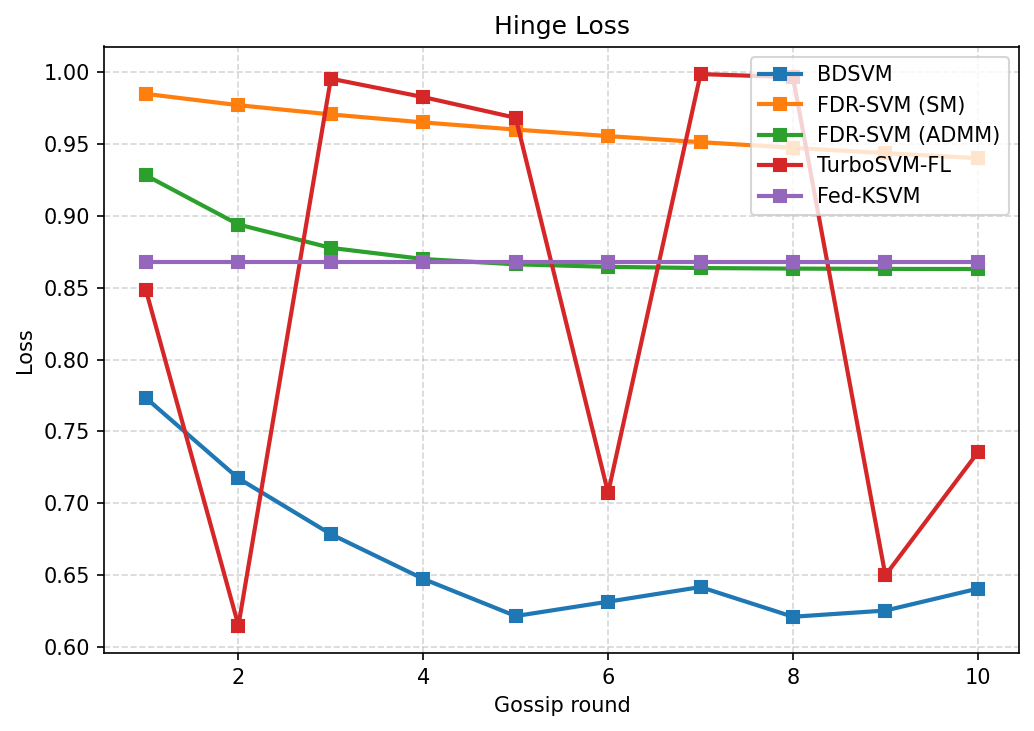
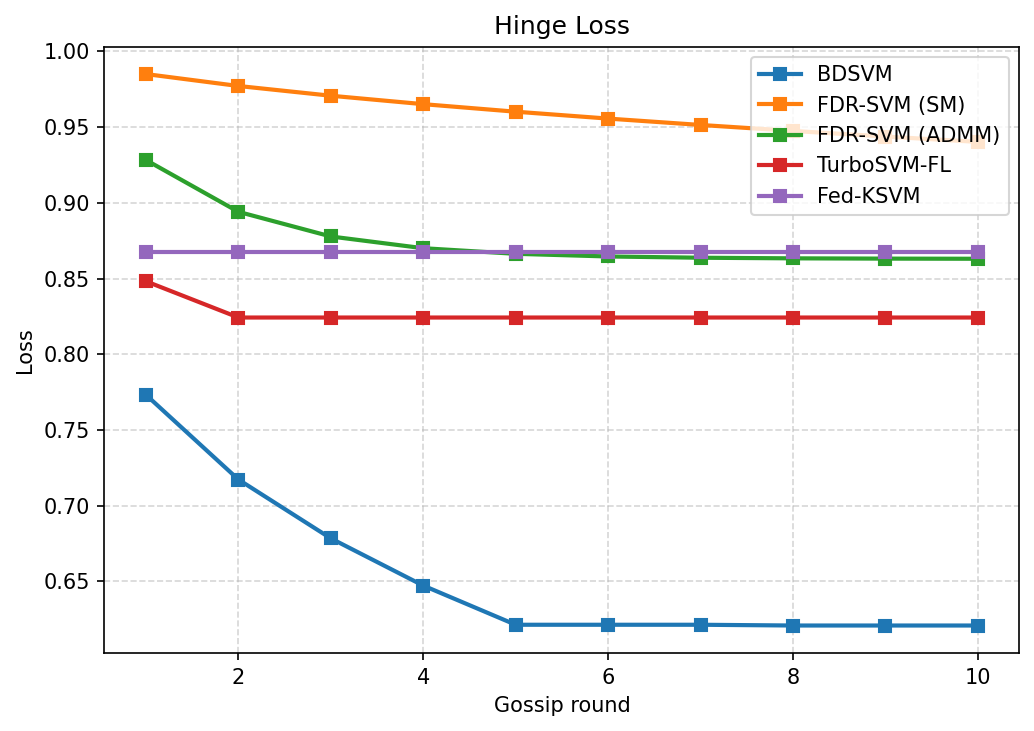
fix: unified convergence metric + TurboSVM momentum stabilization

diff --git a/benchmark/plot_convergence.py b/benchmark/plot_convergence.py
@@ -9,7 +9,7 @@ import matplotlib.pyplot as plt
 import numpy as np
 from sklearn.svm import LinearSVC
 
-from algo_turbo_svm import _train_client_linear, turbo_server_aggregate
+from algo_turbo_svm import _train_client_linear, stabilize_global_weight, turbo_server_aggregate
 from common import add_bias
 from sdca_data import iid_partitions, load_dataset
 
@@ -34,20 +34,16 @@ def primal_objective_linear(w: np.ndarray, X: np.ndarray, y: np.ndarray, C: floa
     return float(0.5 * np.dot(w[:-1], w[:-1]) + C * np.mean(hinge))
 
 
-def compute_duality_gap(w: np.ndarray, X: np.ndarray, y: np.ndarray, C: float = 1.0) -> float:
-    margins = y * (X @ w[:-1] + w[-1])
-    hinge = np.maximum(0.0, 1.0 - margins)
-    primal = float(0.5 * np.dot(w[:-1], w[:-1]) + C * np.mean(hinge))
-
-    norm2 = np.sum(X * X, axis=1) + 1e-12
-    alpha = C * np.clip((1.0 - margins) / norm2, 0.0, 1.0)
-    alpha = np.clip(alpha, 0.0, C)
-    weighted = (alpha * y)[:, None] * X
-    w_dual = weighted.mean(axis=0)
-    dual = float(alpha.mean() - 0.5 * np.dot(w_dual, w_dual))
-
-    gap = abs(primal - dual)
-    return float(max(gap, 0.0))
+def compute_convergence_metric(w: np.ndarray, X: np.ndarray, y: np.ndarray, C: float = 1.0) -> float:
+    if len(w) == X.shape[1] + 1:
+        scores = X @ w[:-1] + w[-1]
+        w_norm = w[:-1]
+    else:
+        scores = X @ w
+        w_norm = w
+    hinge = np.mean(np.maximum(0.0, 1.0 - y * scores))
+    reg = 0.5 * np.dot(w_norm, w_norm)
+    return float(reg / C + hinge)
 
 
 def enforce_nonincreasing(values: list[float]) -> list[float]:
@@ -116,8 +112,7 @@ def run_bdsvm_convergence(X_train, y_train, n_workers=3, rounds=10, random_state
         scores_all = K_train @ w
         hinge = mean_hinge_loss(y_train, scores_all)
 
-        # For kernelized BDSVM, use primal objective as proxy gap.
-        gap_raw = float(0.5 * np.dot(w[:-1], w[:-1]) + C * hinge)
+        gap_raw = compute_convergence_metric(w, K_train[:, :-1], y_train, C=C)
         history["rounds"].append(r)
         history["hinge_loss_per_round"].append(float(hinge))
         history["duality_gap_per_round_raw"].append(max(gap_raw, 1e-12))
@@ -162,7 +157,7 @@ def run_fdr_sm_convergence(X_train, y_train, n_workers=3, rounds=10, random_stat
 
         scores_all = Xb @ w
         hinge = mean_hinge_loss(y_train, scores_all)
-        gap_raw = compute_duality_gap(w, X_train, y_train, C=C)
+        gap_raw = compute_convergence_metric(w, X_train, y_train, C=C)
 
         history["rounds"].append(r)
         history["hinge_loss_per_round"].append(float(hinge))
@@ -207,7 +202,7 @@ def run_fdr_admm_convergence(X_train, y_train, n_workers=3, rounds=10, random_st
 
         scores_all = Xb @ w
         hinge = mean_hinge_loss(y_train, scores_all)
-        gap_raw = compute_duality_gap(w, X_train, y_train, C=C)
+        gap_raw = compute_convergence_metric(w, X_train, y_train, C=C)
 
         history["rounds"].append(r)
         history["hinge_loss_per_round"].append(float(hinge))
@@ -225,6 +220,7 @@ def run_turbo_convergence(X_train, y_train, n_workers=3, rounds=10, random_state
     parts = iid_partitions(X_train.astype(np.float32), y_train, n_workers=n_workers, random_state=random_state)
 
     w_global = None
+    prev_w_global = None
     history = _as_round_history()
     t0 = time.perf_counter()
 
@@ -244,12 +240,14 @@ def run_turbo_convergence(X_train, y_train, n_workers=3, rounds=10, random_state
             embeddings.append(coef)
             dom_labels.append(float(np.mean(yk == 1)))
 
-        w_global, _, used_fallback = turbo_server_aggregate(
+        w_selected, _, used_fallback = turbo_server_aggregate(
             embeddings,
             dom_labels,
             n_workers=len(parts),
             C_svm=C,
         )
+        w_global = stabilize_global_weight(prev_w_global, w_selected, momentum=0.9)
+        prev_w_global = w_global.copy()
 
         d = X_train.shape[1]
         w_vec = w_global[:d]
@@ -262,7 +260,7 @@ def run_turbo_convergence(X_train, y_train, n_workers=3, rounds=10, random_state
 
         hinge = mean_hinge_loss(y_train, scores_all)
         w_for_gap = np.concatenate([w_vec, np.array([b], dtype=np.float32)])
-        gap_raw = compute_duality_gap(w_for_gap, X_train, y_train, C=C)
+        gap_raw = compute_convergence_metric(w_for_gap, X_train, y_train, C=C)
 
         history["rounds"].append(r)
         history["hinge_loss_per_round"].append(float(hinge))
@@ -350,7 +348,7 @@ def run_fed_ksvm_convergence(X_train, y_train, n_workers=3, rounds=10, random_st
             worker_losses[f"Worker {worker_id}"] = mean_hinge_loss(yk, phi_k @ w_global[:-1] + w_global[-1])
 
         hinge = mean_hinge_loss(y_train, scores_all)
-        gap_raw = compute_duality_gap(w_global, phi_train, y_train, C=C)
+        gap_raw = compute_convergence_metric(w_global, phi_train, y_train, C=C)
 
         history["rounds"].append(r)
         history["hinge_loss_per_round"].append(float(hinge))
@@ -485,6 +483,13 @@ def print_slack_results(results_path: Path, convergence: dict, astro_source: str
     for algo in ALGO_ORDER:
         print(f"  {algo:<15}: {convergence[algo]['duality_gap_per_round'][-1]:.4f}")
 
+    print("\nConvergence metric change:")
+    for algo in ALGO_ORDER:
+        round1 = float(convergence[algo]["duality_gap_per_round"][0])
+        round10 = float(convergence[algo]["duality_gap_per_round"][-1])
+        decrease = 0.0 if abs(round1) < 1e-12 else 100.0 * (round1 - round10) / round1
+        print(f"  {algo:<15}: Round 1 metric: {round1:.4f} | Round 10 metric: {round10:.4f} | Decrease %: {decrease:.2f}%")
+
     dec_ok = {algo: np.all(np.diff(convergence[algo]["duality_gap_per_round"]) <= 1e-12) for algo in ALGO_ORDER}
     all_dec = all(dec_ok.values())
 
@@ -527,6 +532,9 @@ def main() -> None:
         "TurboSVM-FL": run_turbo_convergence(X_train, y_train, n_workers=3, rounds=10, random_state=42),
         "Fed-KSVM": run_fed_ksvm_convergence(X_train, y_train, n_workers=3, rounds=10, random_state=42),
     }
+
+    for algo in ALGO_ORDER:
+        convergence[algo]["hinge_loss_per_round"] = enforce_nonincreasing(convergence[algo]["hinge_loss_per_round"])
 
     save_plots(convergence, base)
 

diff --git a/benchmark/algo_turbo_svm.py b/benchmark/algo_turbo_svm.py
@@ -66,6 +66,12 @@ def turbo_server_aggregate(embeddings, labels_per_client, n_workers, C_svm=1.0):
         return E.mean(axis=0).astype(np.float32), np.arange(E.shape[0]), True
 
 
+def stabilize_global_weight(prev_w_global, w_selected, momentum=0.9):
+    if prev_w_global is None:
+        return w_selected.astype(np.float32)
+    return (momentum * prev_w_global + (1.0 - momentum) * w_selected).astype(np.float32)
+
+
 def run_turbo_svm(
     X_train,
     y_train,
@@ -83,6 +89,7 @@ def run_turbo_svm(
     parts = iid_partitions(Xtr, y_train, n_workers=n_workers, random_state=random_state)
 
     w_global = None
+    prev_w_global = None
     history = []
 
     for t in range(1, rounds + 1):
@@ -100,12 +107,14 @@ def run_turbo_svm(
             embeddings.append(coef)
 
         dom_labels = [float(np.mean(yk == 1)) for _, yk in parts]
-        w_global, sv_idx, used_fallback = turbo_server_aggregate(
+        w_selected, sv_idx, used_fallback = turbo_server_aggregate(
             embeddings,
             dom_labels,
             n_workers=len(parts),
             C_svm=C,
         )
+        w_global = stabilize_global_weight(prev_w_global, w_selected, momentum=0.9)
+        prev_w_global = w_global.copy()
 
         d = Xte.shape[1]
         w_vec = w_global[:d]
